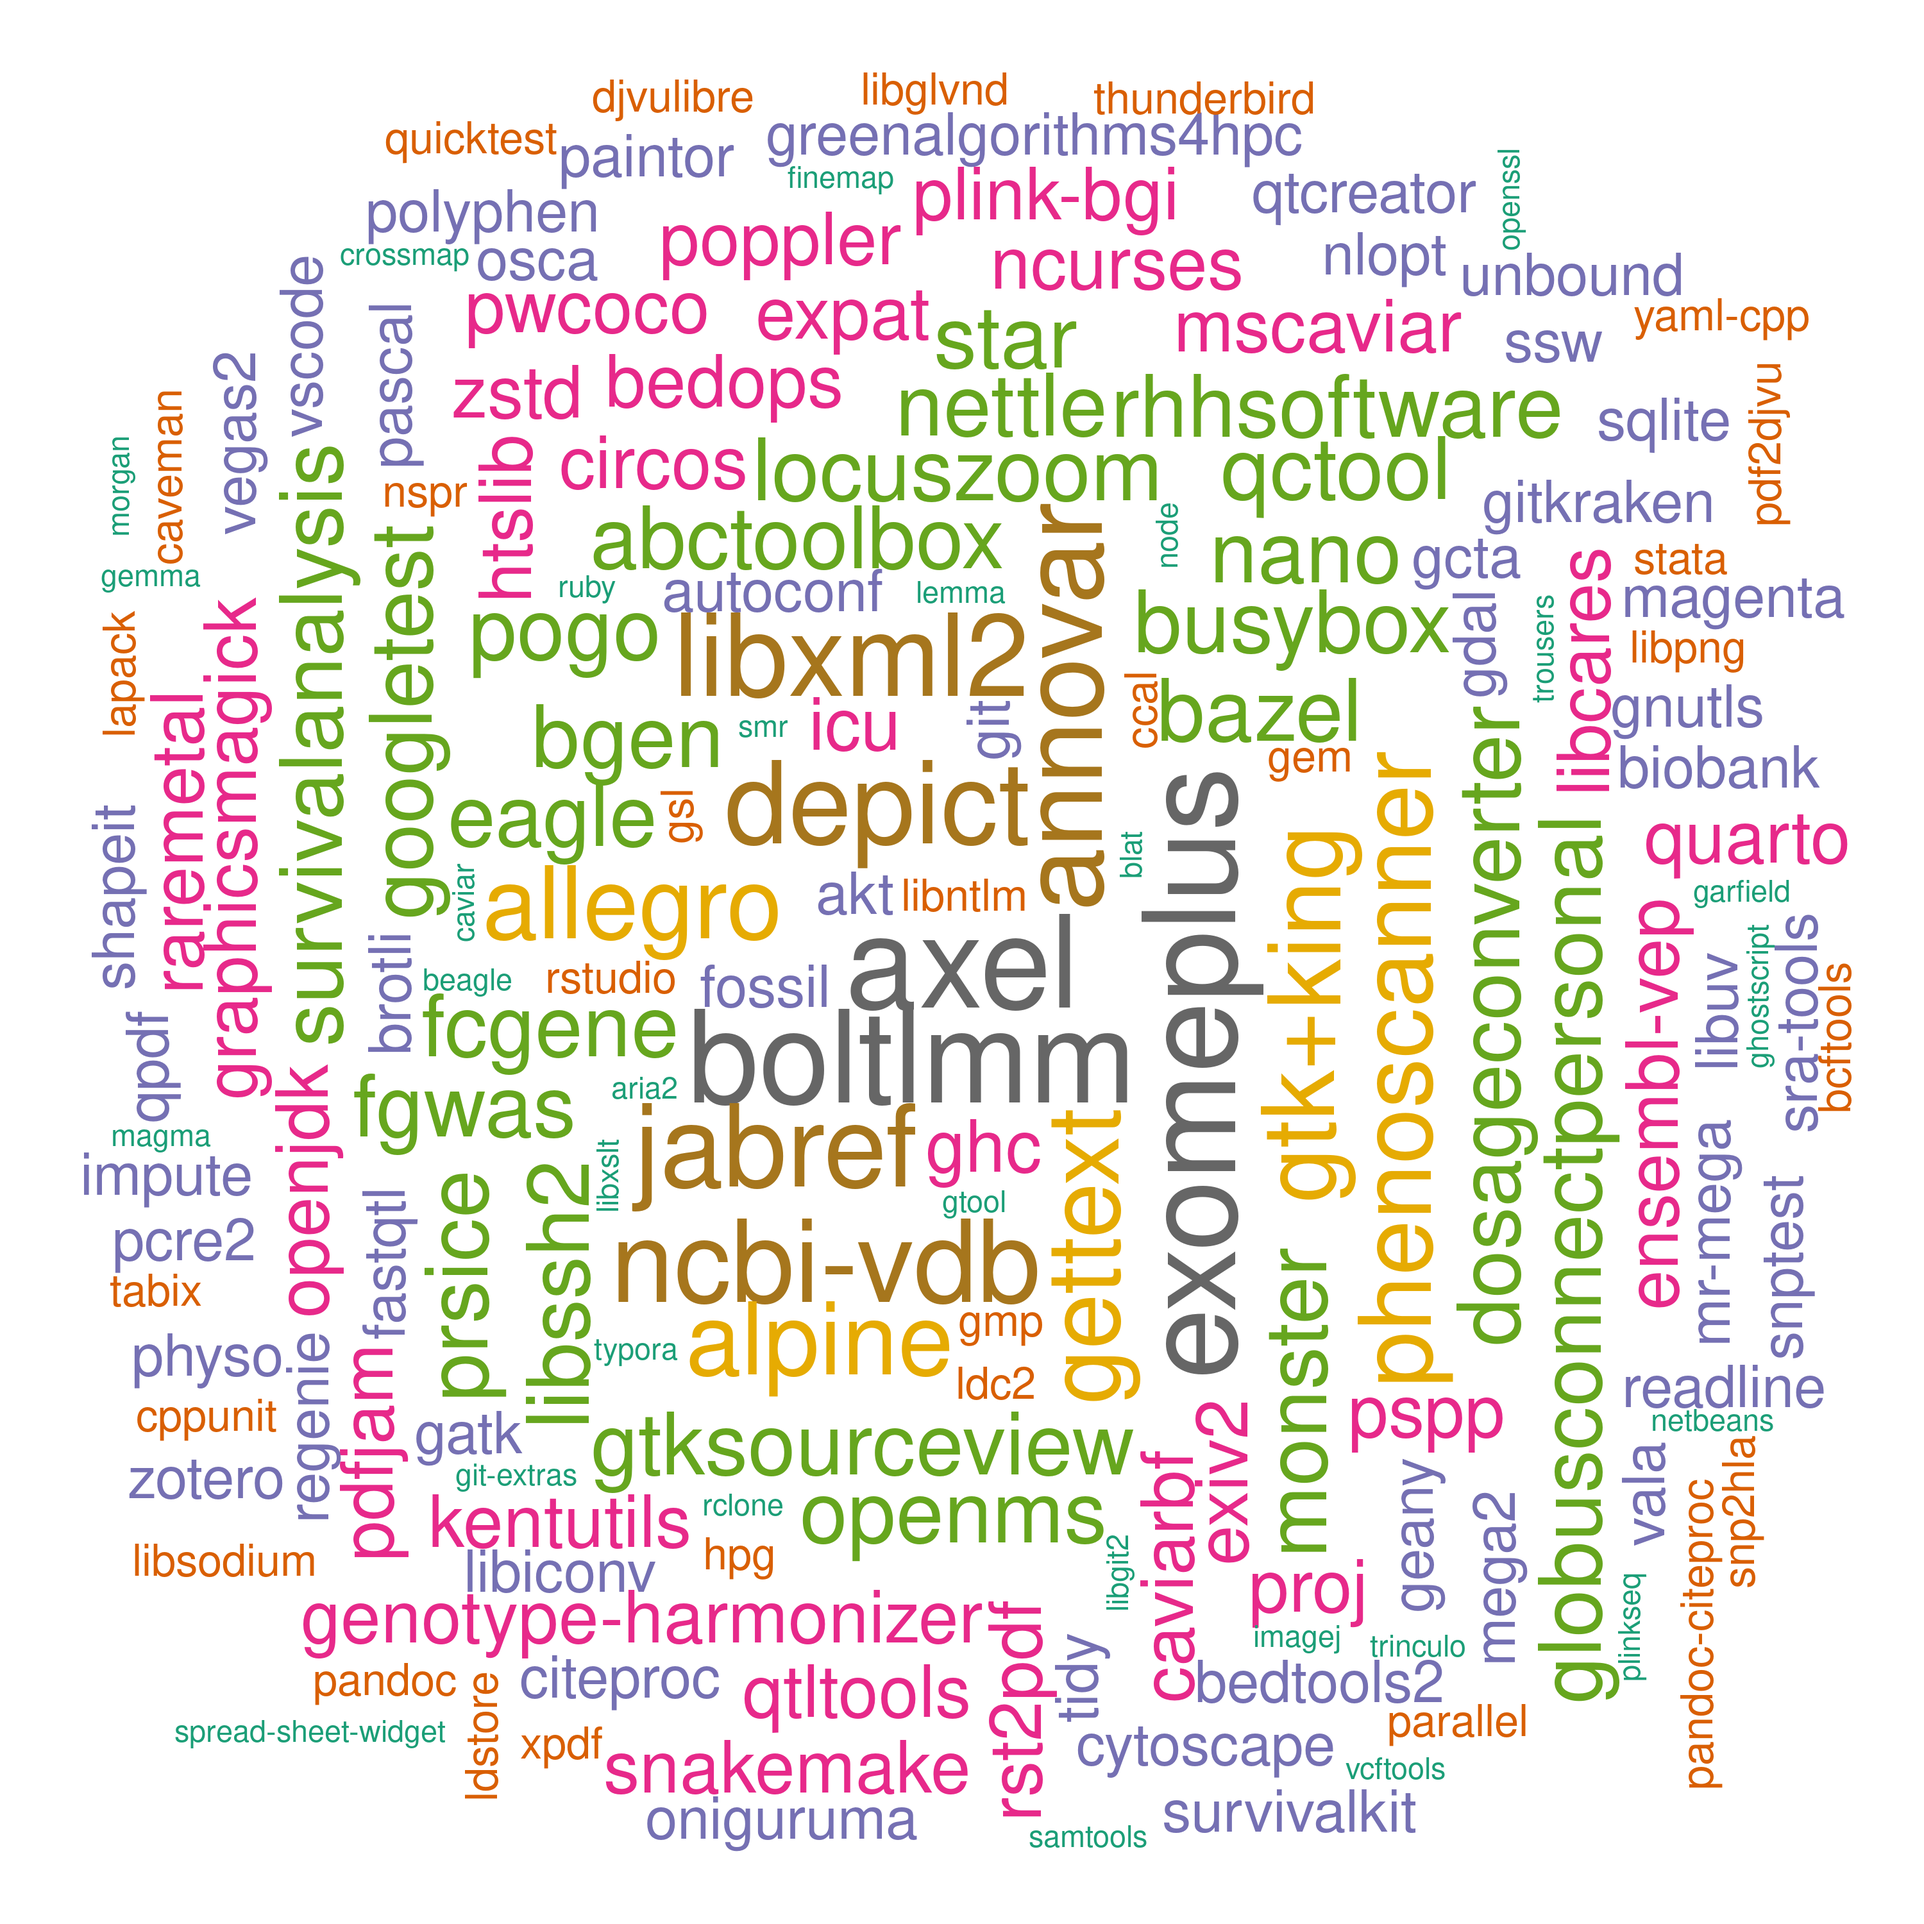
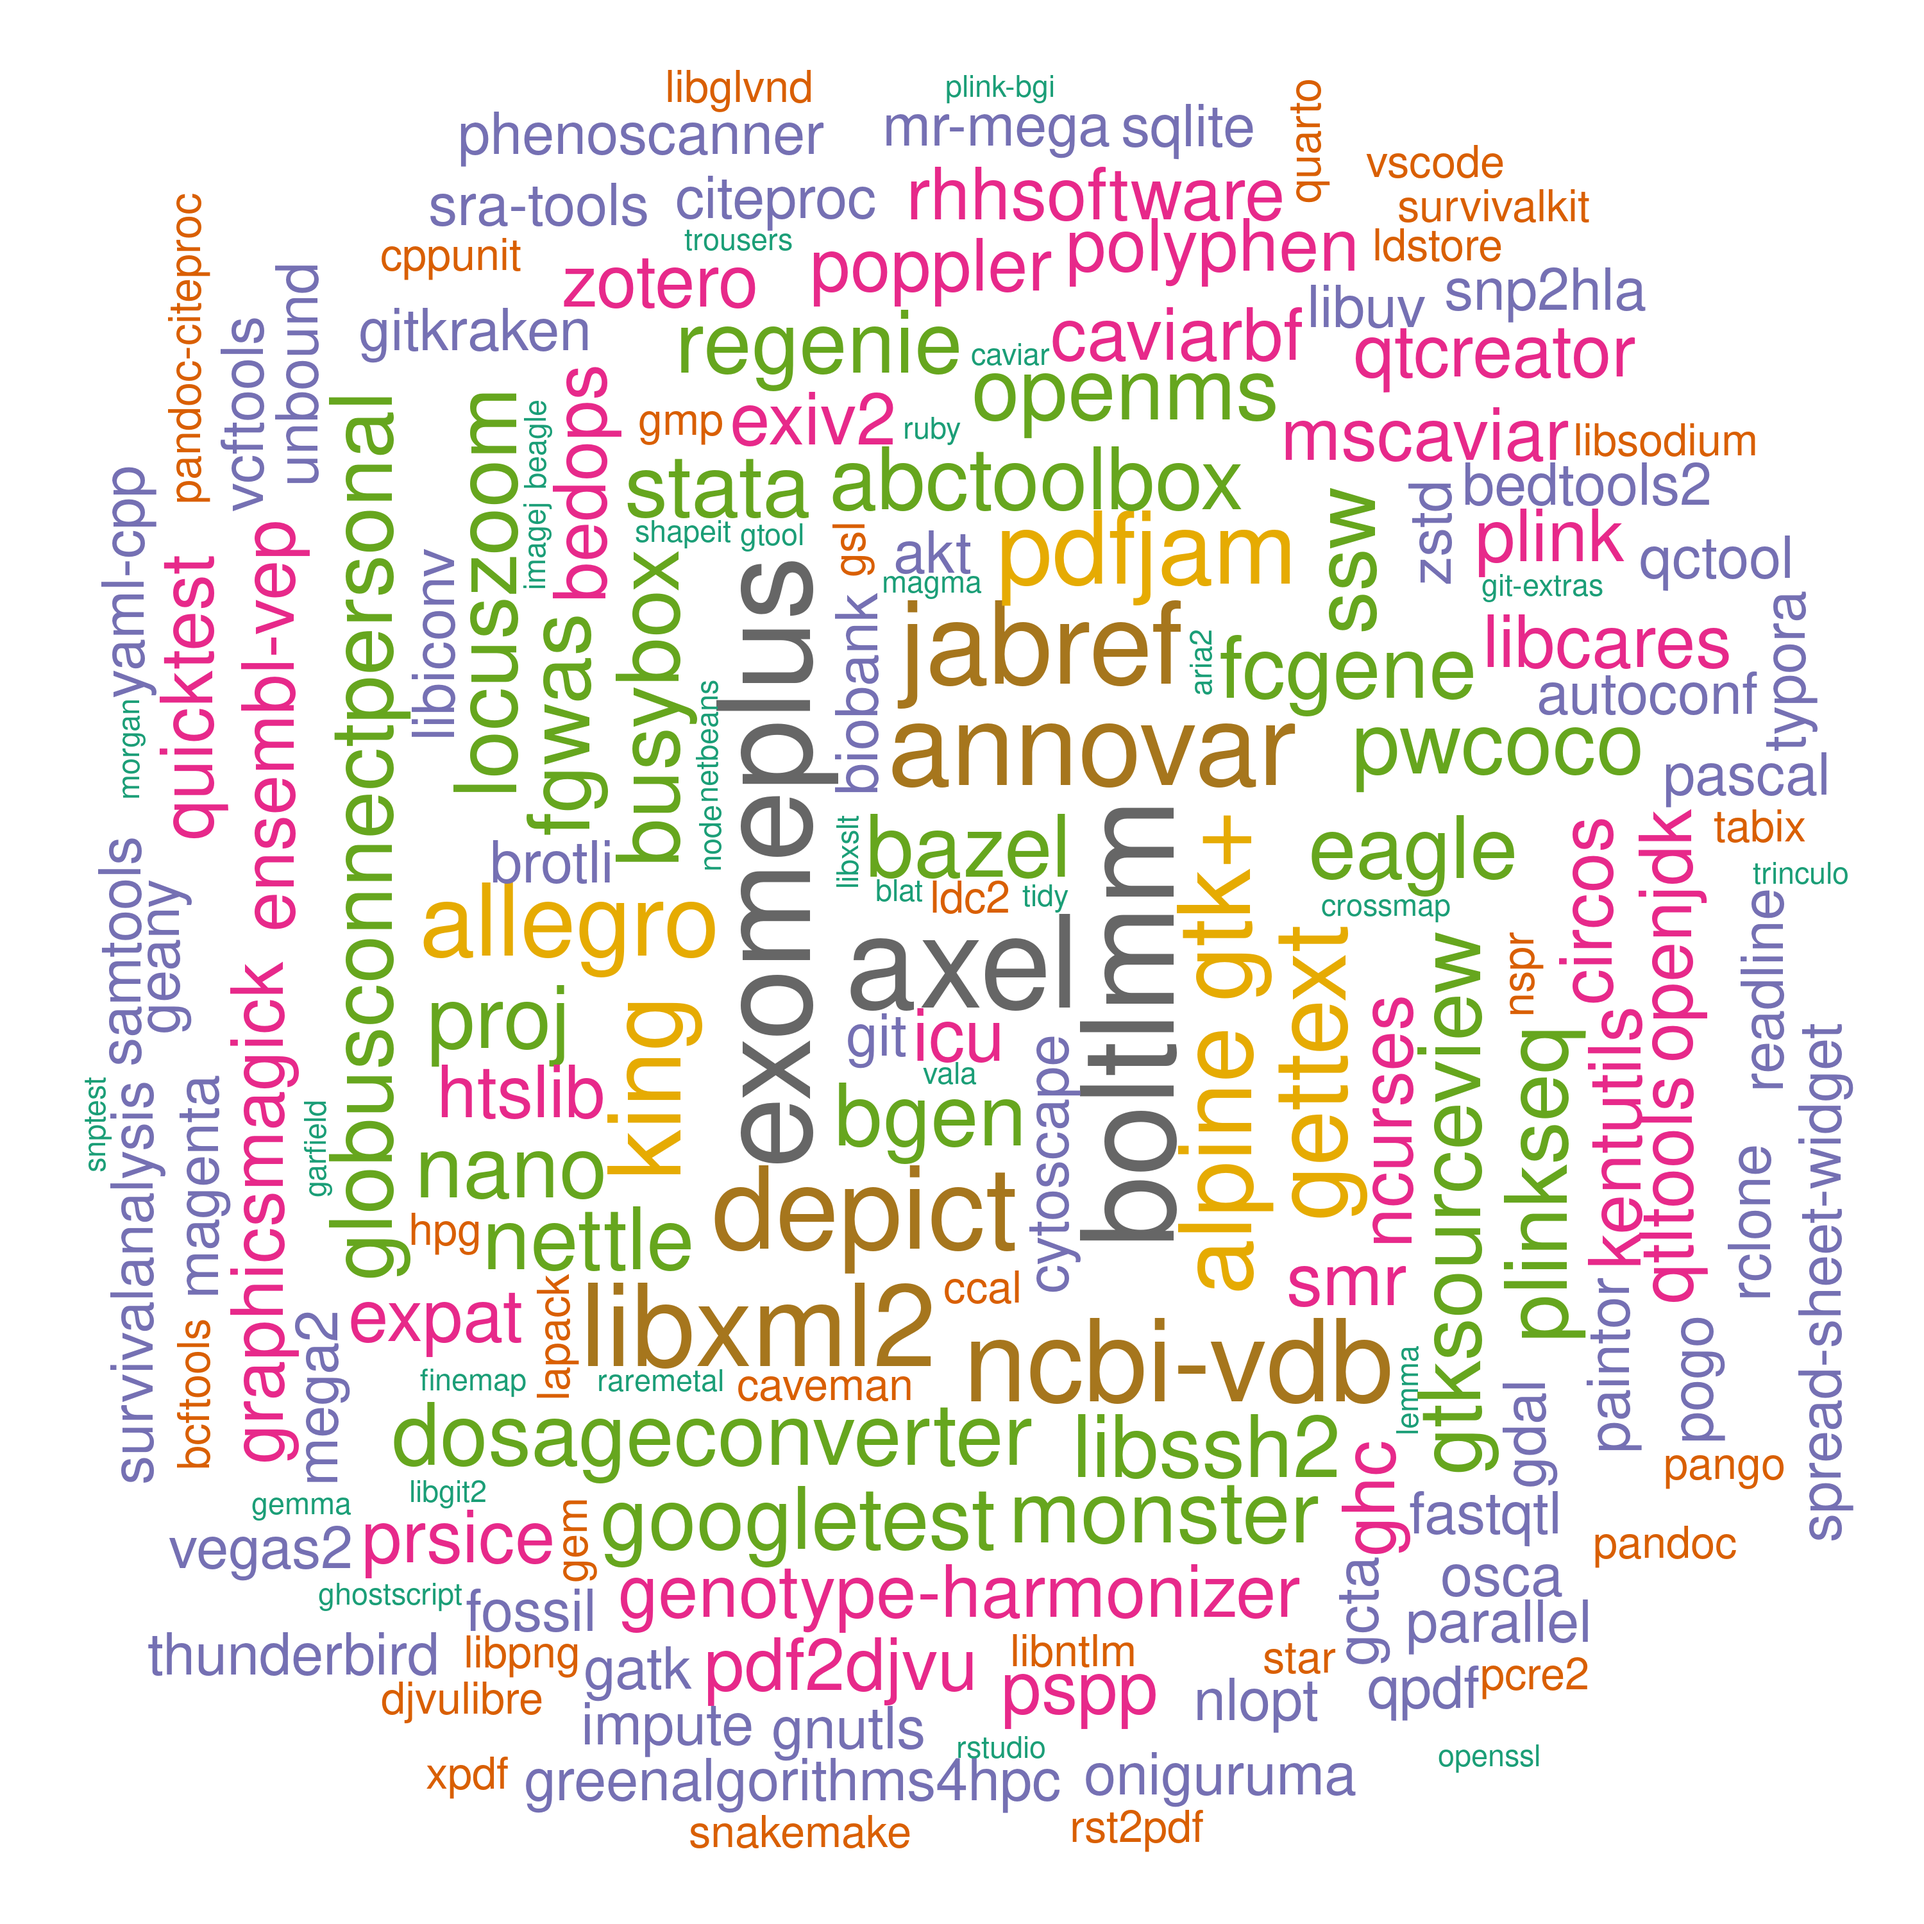
./

Changed region(s): [[0.031, 0.031, 0.961, 0.961], [0.093, 0.899, 0.124, 0.93]]

diff --git a/systems/ceuadmin.md b/systems/ceuadmin.md
@@ -8,7 +8,7 @@ The CEU software repository is here, **/usr/local/Cluster-Apps/ceuadmin/**.
 
 ![ceuadmin](ceuadmin.png)
 
-A word cloud diagram is generated from the following R script, noting that the importance of software is purely random according to $$Poisson(N,\lambda)$$ where $$N=182$$, $$\lambda=3$$.
+A word cloud diagram is generated from the following R script, noting that the importance of software is purely random according to $$Poisson(N,\lambda)$$ where $$N=183$$, $$\lambda=3$$.
 
 ```r
 library(RColorBrewer)
@@ -17,6 +17,7 @@ library(tm)
 library(wordcloud)
 ceuadmin <- Sys.getenv("CEUADMIN")
 modules <- setdiff(dir(ceuadmin),c("doc","lib","misc","sources"))
+length(modules)
 set.seed(1234321)
 docs <- Corpus(VectorSource(modules))
 m <- TermDocumentMatrix(docs) %>%
@@ -73,27 +74,27 @@ The current list is as follows,
 [112] "nspr"                  "oniguruma"             "openjdk"
 [115] "OpenMS"                "openssl"               "osca"
 [118] "PAINTOR"               "pandoc"                "pandoc-citeproc"
-[121] "parallel"              "Pascal"                "pcre2"
-[124] "pdf2djvu"              "pdfjam"                "phenoscanner"
-[127] "PhySO"                 "plink"                 "plink-bgi"
-[130] "plinkseq"              "PoGo"                  "polyphen"
-[133] "poppler"               "proj"                  "PRSice"
-[136] "pspp"                  "PWCoCo"                "qctool"
-[139] "qpdf"                  "qt"                    "qtcreator"
-[142] "QTLtools"              "quarto"                "quicktest"
-[145] "R"                     "raremetal"             "rclone"
-[148] "readline"              "regenie"               "RHHsoftware"
-[151] "rst2pdf"               "rstudio"               "ruby"
-[154] "samtools"              "shapeit"               "SMR"
-[157] "snakemake"             "SNP2HLA"               "snptest"
-[160] "spread-sheet-widget"   "sqlite"                "sra-tools"
-[163] "ssw"                   "STAR"                  "stata"
-[166] "SurvivalAnalysis"      "SurvivalKit"           "tabix"
-[169] "thunderbird"           "tidy"                  "trinculo"
-[172] "trousers"              "Typora"                "unbound"
-[175] "vala"                  "vcftools"              "VEGAS2"
-[178] "VSCode"                "xpdf"                  "yaml-cpp"
-[181] "Zotero"                "zstd"
+[121] "pango"                 "parallel"              "Pascal"
+[124] "pcre2"                 "pdf2djvu"              "pdfjam"
+[127] "phenoscanner"          "PhySO"                 "plink"
+[130] "plink-bgi"             "plinkseq"              "PoGo"
+[133] "polyphen"              "poppler"               "proj"
+[136] "PRSice"                "pspp"                  "PWCoCo"
+[139] "qctool"                "qpdf"                  "qt"
+[142] "qtcreator"             "QTLtools"              "quarto"
+[145] "quicktest"             "R"                     "raremetal"
+[148] "rclone"                "readline"              "regenie"
+[151] "RHHsoftware"           "rst2pdf"               "rstudio"
+[154] "ruby"                  "samtools"              "shapeit"
+[157] "SMR"                   "snakemake"             "SNP2HLA"
+[160] "snptest"               "spread-sheet-widget"   "sqlite"
+[163] "sra-tools"             "ssw"                   "STAR"
+[166] "stata"                 "SurvivalAnalysis"      "SurvivalKit"
+[169] "tabix"                 "thunderbird"           "tidy"
+[172] "trinculo"              "trousers"              "Typora"
+[175] "unbound"               "vala"                  "vcftools"
+[178] "VEGAS2"                "VSCode"                "xpdf"
+[181] "yaml-cpp"              "Zotero"                "zstd"
 ```
 
 These are wrapped up as :star::star::star: **[modules](https://modules.readthedocs.io/en/latest/index.html)** :star::star::star:.

diff --git a/applications/geany.md b/applications/geany.md
@@ -15,8 +15,9 @@ Web: <https://www.geany.org/> (<https://www.geany.org/download/git/>, <https://g
 ```bash
 module load texlive
 module load python/3.8
+cd /usr/local/Cluster-Apps/ceuadmin/rst2pdf/0.101/
 virtualenv py38
-source /usr/local/Cluster-Apps/ceuadmin/rst2pdf/0.101/py38/bin/activate
+source /usr/local/Cluster-Apps/ceuadmin/rst2pdf/0.101//py38/bin/activate
 pip install PyPI
 pip install rst2pdf[aafiguresupport,mathsupport,plantumlsupport,rawhtmlsupport,sphinx,svgsupport]
 rst2pdf --version
@@ -48,7 +49,7 @@ To this point, the software as with the utilities is available upon `module load
 
 (To be continued)
 
-It requires gtk+>=3.22, so the setup for gtk+3.24.9 is somewhat involved. At least, these are necessary,
+It requires gtk+>=3.22, so the setup for gtk+3.3.8 is somewhat involved. At least, these are necessary,
 
 ```bash
 module load gcc/7
@@ -62,23 +63,24 @@ cd pango-1.41.1/
 make
 make install
 # gtk+-3.24.9
-wget https://download.gnome.org/sources/gtk+/3.24/gtk%2B-3.24.9.tar.xz
-tar xf gtk+-3.24.9.tar.xz
-cd gtk+-3.24.9
-module load gettext-0.19.8.1-gcc-5.4.0-5iqkv5z
-module load ceuadmin/gettext
-export intl=/usr/local/Cluster-Apps/ceuadmin/gettext/0.21/
+wget https://download.gnome.org/sources/gtk+/3.3/gtk%2B-3.3.8.tar.xz
+tar xf gtk+-3.3.8.tar.xz
+cd gtk+-3.3.8
+module load ceuadmin/gettext/0.20
+export gcc7=/usr/local/software/master/gcc/7
+export intl=/usr/local/Cluster-Apps/ceuadmin/gettext/0.20
 module load cups-2.2.3-gcc-5.4.0-du37l7s
 module load ceuadmin/pango
-export ldflags=${gcc6}/lib64:${gcc6}/lib:${intl}/lib:${HPC_WORK}/lib64:${HPC_WORK}/lib
-configure --prefix=${CEUADMIN}/gtk+/3.24.9 CPPFLAGS=-I${intl}/include LDFLAGS=-L${ldflags} LIBS=-lintl
+export include=${gcc7}/include:${intl}/include:${HPC_WORK}/include
+export ldflags=${gcc7}/lib64:${gcc7}/lib:${intl}/lib:${HPC_WORK}/lib64:${HPC_WORK}/lib
+configure --prefix=${CEUADMIN}/gtk+/3.24.9 CPPFLAGS=-I${include} LDFLAGS=-L${ldflags} LIBS=-lintl
 make
 # geany 2.0
 wget https://github.com/geany/geany/releases/download/2.0.0/geany-2.0.tar.gz
 tar tvfz geany-2.0.tar.gz
 ```
 
-Attempts to use available modules available modules, e.g.,
+Attempts to get around with available modules, e.g.,
 
 ```bash
 module load atk-2.20.0-gcc-5.4.0-kiljdkb
@@ -87,15 +89,15 @@ module load ceuadmin/fribidi
 module load glib-2.56.2-gcc-5.4.0-4rjjizl
 module load gtkplus-2.24.31-gcc-5.4.0-2a7zfti
 module load ceuadmin/rst2pdf
-export h=/usr/local/software/spack/spack-0.11.2/opt/spack/linux-rhel7-x86_64/gcc-5.4.0/gtkplus-2.24.31-2a7zfti5vy55wwliac2v5bnwybhsfs4a/
 export g=/usr/local/software/spack/current/opt/spack/linux-rhel7-x86_64/gcc-5.4.0/glib-2.56.2-4rjjizlvegjs2vwdag76hzgvlck3zlqb
+export h=/usr/local/software/spack/spack-0.11.2/opt/spack/linux-rhel7-x86_64/gcc-5.4.0/gtkplus-2.24.31-2a7zfti5vy55wwliac2v5bnwybhsfs4a
+export include=${h}/lib/gtk-2.0/include:${h}/include/gtk-2.0/gtk:${g}/include/glib-2.0:${g}/lib/glib-2.0/include
+export ldflags=${h}/lib:${g}/lib
+./configure --prefix=$CEUADMIN/geany/2.0 --enable-binreloc=yes GTK_CFLAGS=-I${include} LDFLAGS=-L${ldflags} GTK_LIBS=-lgtk-x11-2.0 GTK_LIBS=-lglib-2.0
+# pango 1.5.2
 wget https://download.gnome.org/sources/pango/1.5/pango-1.5.2.tar.gz
 tar xvfz pango-1.5.2.tar.gz
 cd pango-1.5.2/
 configure --prefix=$CEUADMIN/pango/1.5.2 GLIB_CFLAGS="-I$g/include/glib-2.0 -I$g/lib/glib-2.0/include" GLIB_LIBS="-L$g/lib -L${intl} -lintl -lglib-2.0"
 make
-./configure --prefix=$CEUADMIN/geany/2.0 --enable-binreloc=yes \
-            GTK_CFLAGS="-I${h}/include -I${h}/lib/gtk-2.0/include -I${h}/include/gtk-2.0/gtk" \
-            GTK_CFLAGS="-I${g}/include/glib-2.0 -I${g}/lib/glib-2.0/include -I$g/include/glib-2.0/include" \
-            GTK_LIBS="-L${h}/lib -lgtk-x11-2.0 -L$g/lib -lglib-2.0"
 ```

diff --git a/systems/files/ceuadmin.md b/systems/files/ceuadmin.md
@@ -45,27 +45,27 @@ The current list is as follows[^ls],
 [112] "nspr"                  "oniguruma"             "openjdk"
 [115] "OpenMS"                "openssl"               "osca"
 [118] "PAINTOR"               "pandoc"                "pandoc-citeproc"
-[121] "parallel"              "Pascal"                "pcre2"
-[124] "pdf2djvu"              "pdfjam"                "phenoscanner"
-[127] "PhySO"                 "plink"                 "plink-bgi"
-[130] "plinkseq"              "PoGo"                  "polyphen"
-[133] "poppler"               "proj"                  "PRSice"
-[136] "pspp"                  "PWCoCo"                "qctool"
-[139] "qpdf"                  "qt"                    "qtcreator"
-[142] "QTLtools"              "quarto"                "quicktest"
-[145] "R"                     "raremetal"             "rclone"
-[148] "readline"              "regenie"               "RHHsoftware"
-[151] "rst2pdf"               "rstudio"               "ruby"
-[154] "samtools"              "shapeit"               "SMR"
-[157] "snakemake"             "SNP2HLA"               "snptest"
-[160] "spread-sheet-widget"   "sqlite"                "sra-tools"
-[163] "ssw"                   "STAR"                  "stata"
-[166] "SurvivalAnalysis"      "SurvivalKit"           "tabix"
-[169] "thunderbird"           "tidy"                  "trinculo"
-[172] "trousers"              "Typora"                "unbound"
-[175] "vala"                  "vcftools"              "VEGAS2"
-[178] "VSCode"                "xpdf"                  "yaml-cpp"
-[181] "Zotero"                "zstd"
+[121] "pango"                 "parallel"              "Pascal"
+[124] "pcre2"                 "pdf2djvu"              "pdfjam"
+[127] "phenoscanner"          "PhySO"                 "plink"
+[130] "plink-bgi"             "plinkseq"              "PoGo"
+[133] "polyphen"              "poppler"               "proj"
+[136] "PRSice"                "pspp"                  "PWCoCo"
+[139] "qctool"                "qpdf"                  "qt"
+[142] "qtcreator"             "QTLtools"              "quarto"
+[145] "quicktest"             "R"                     "raremetal"
+[148] "rclone"                "readline"              "regenie"
+[151] "RHHsoftware"           "rst2pdf"               "rstudio"
+[154] "ruby"                  "samtools"              "shapeit"
+[157] "SMR"                   "snakemake"             "SNP2HLA"
+[160] "snptest"               "spread-sheet-widget"   "sqlite"
+[163] "sra-tools"             "ssw"                   "STAR"
+[166] "stata"                 "SurvivalAnalysis"      "SurvivalKit"
+[169] "tabix"                 "thunderbird"           "tidy"
+[172] "trinculo"              "trousers"              "Typora"
+[175] "unbound"               "vala"                  "vcftools"
+[178] "VEGAS2"                "VSCode"                "xpdf"
+[181] "yaml-cpp"              "Zotero"                "zstd"
 ```
 
 Most should be available to all CSD3 users in the whole campus, e.g., for pspp, a brief description of a module is available with
@@ -292,6 +292,8 @@ They are ordered chronologically.
 |2023-09-28 |openjdk/17.0.8+7                 |Generic             |
 |2023-10-24 |rst2pdf/0.101                    |Generic             |
 |2023-10-24 |geany/1.38                       |Generic             |
+|2023-10-24 |pango/1.41.1                     |Generic             |
+|2023-10-24 |gettext/0.20                     |Generic             |
 
 \* CEU or approved users only.
 
